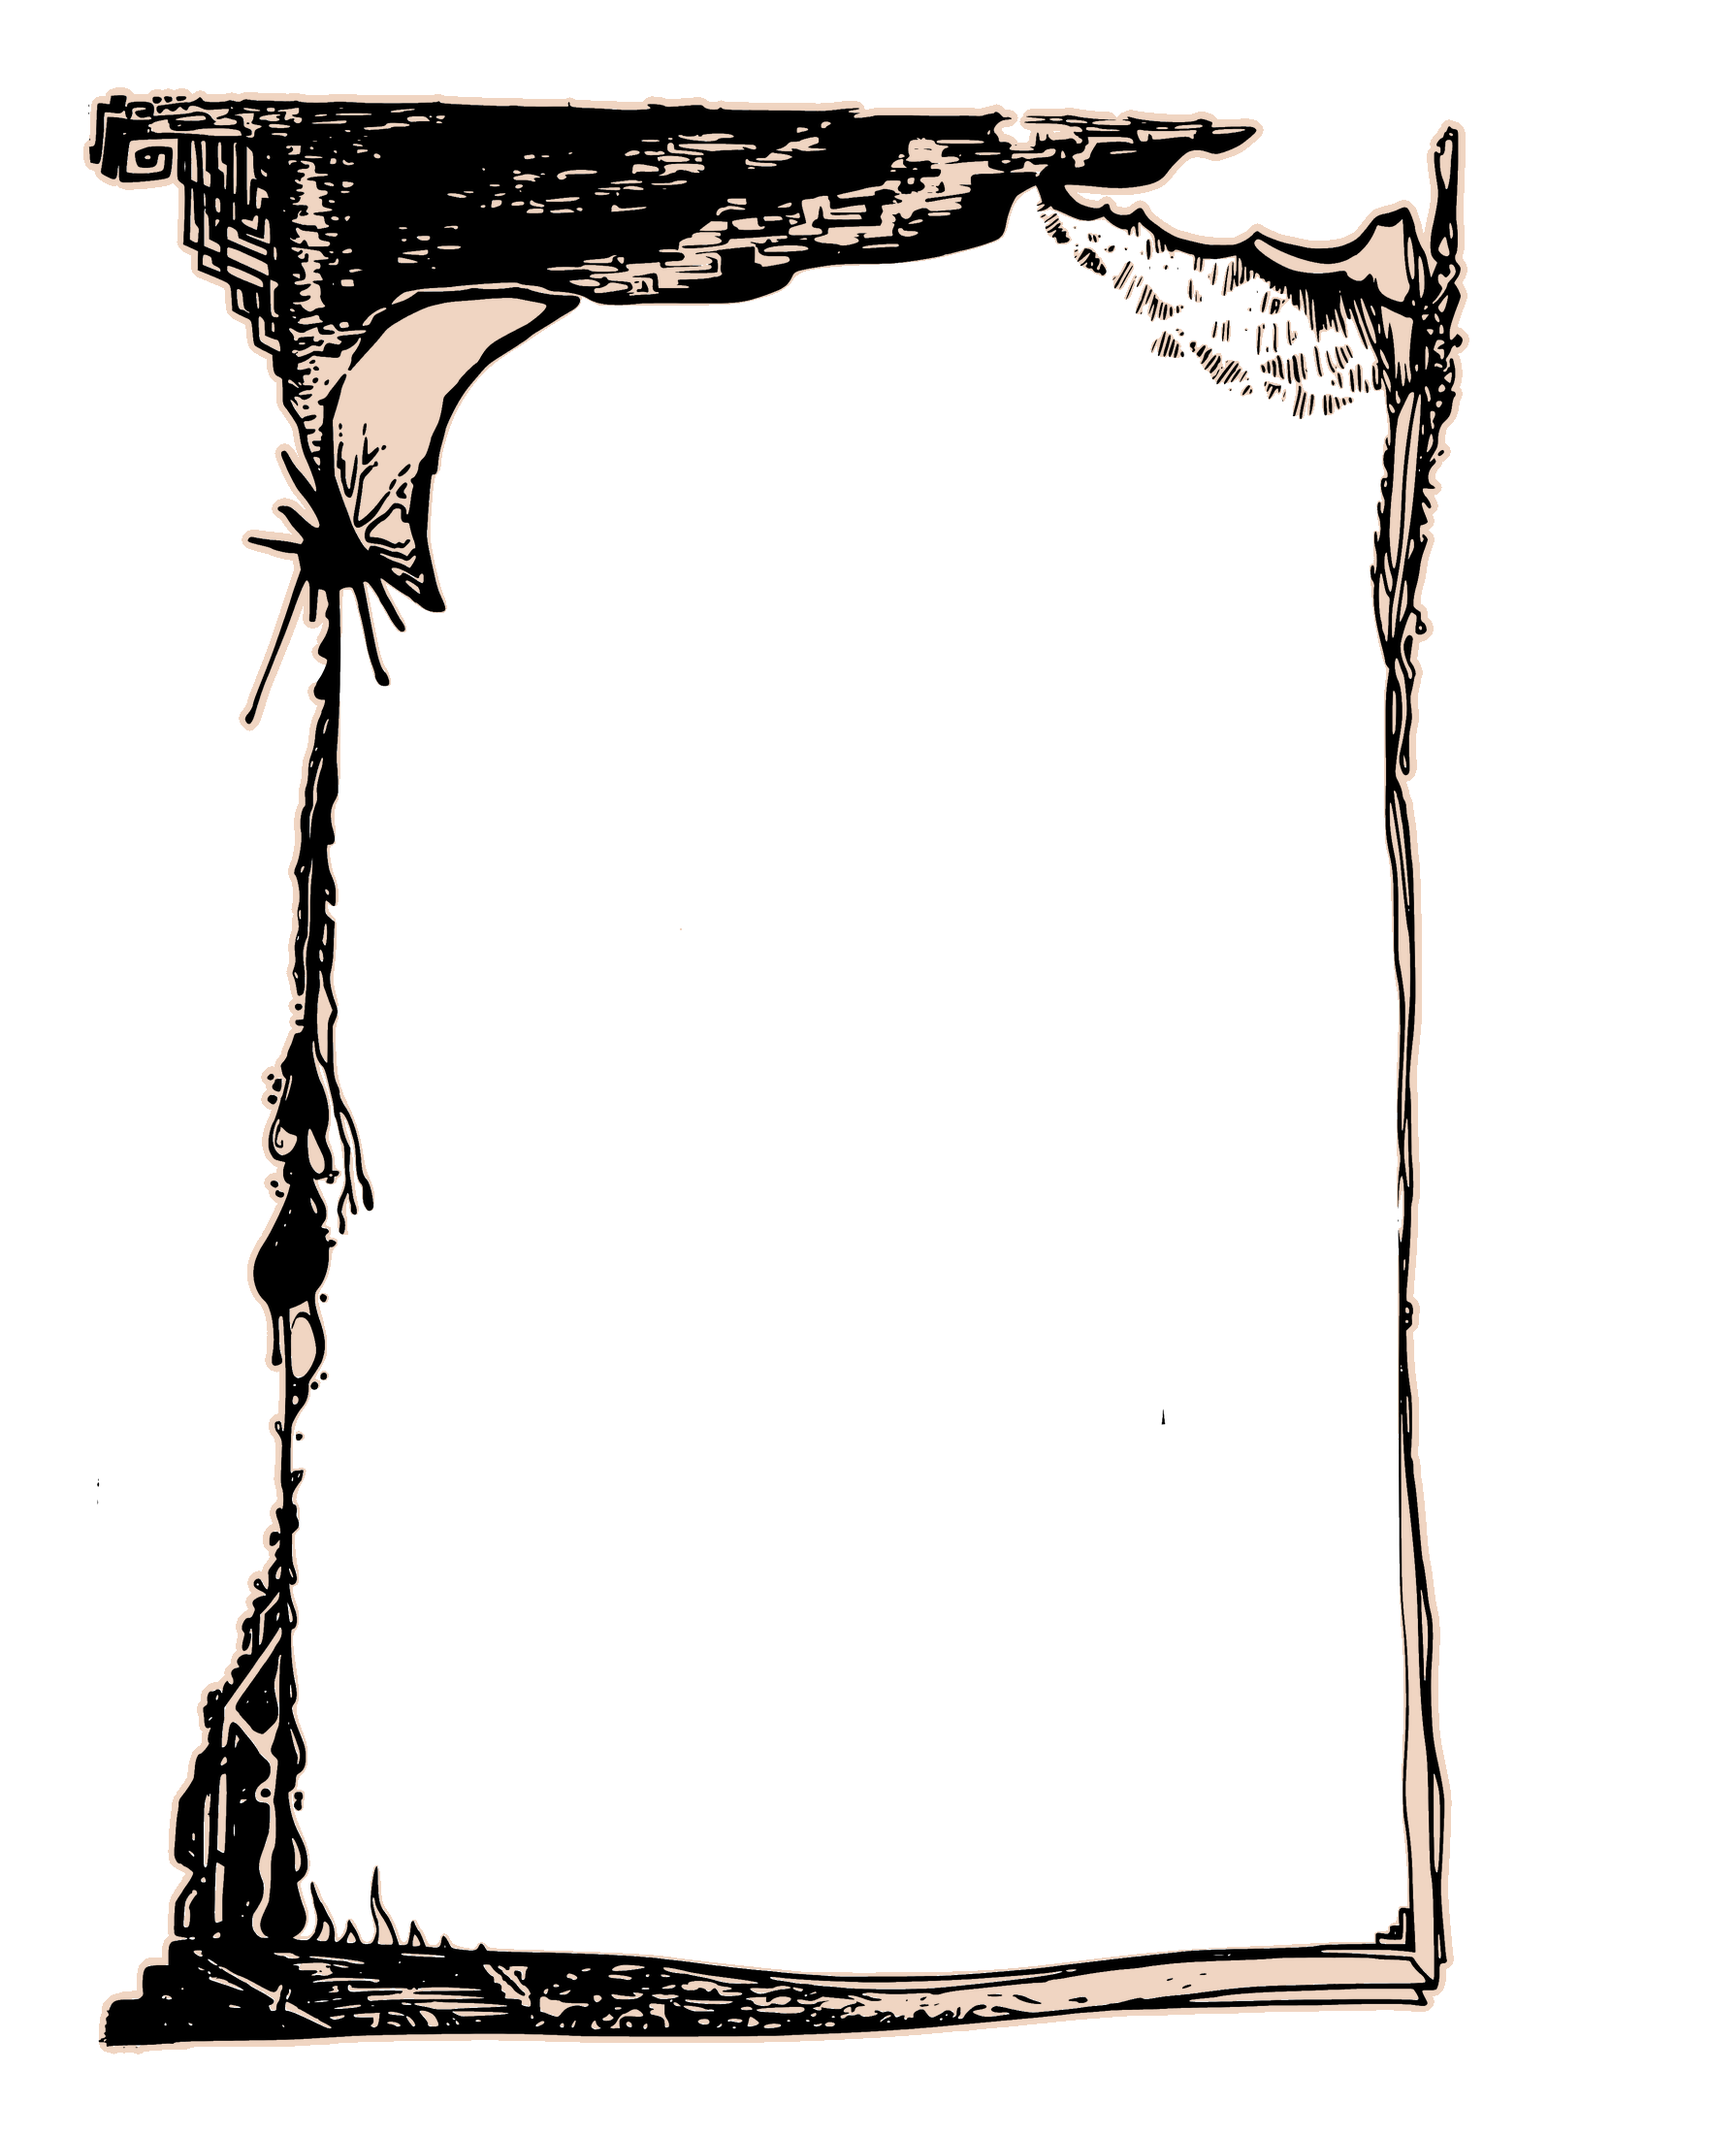
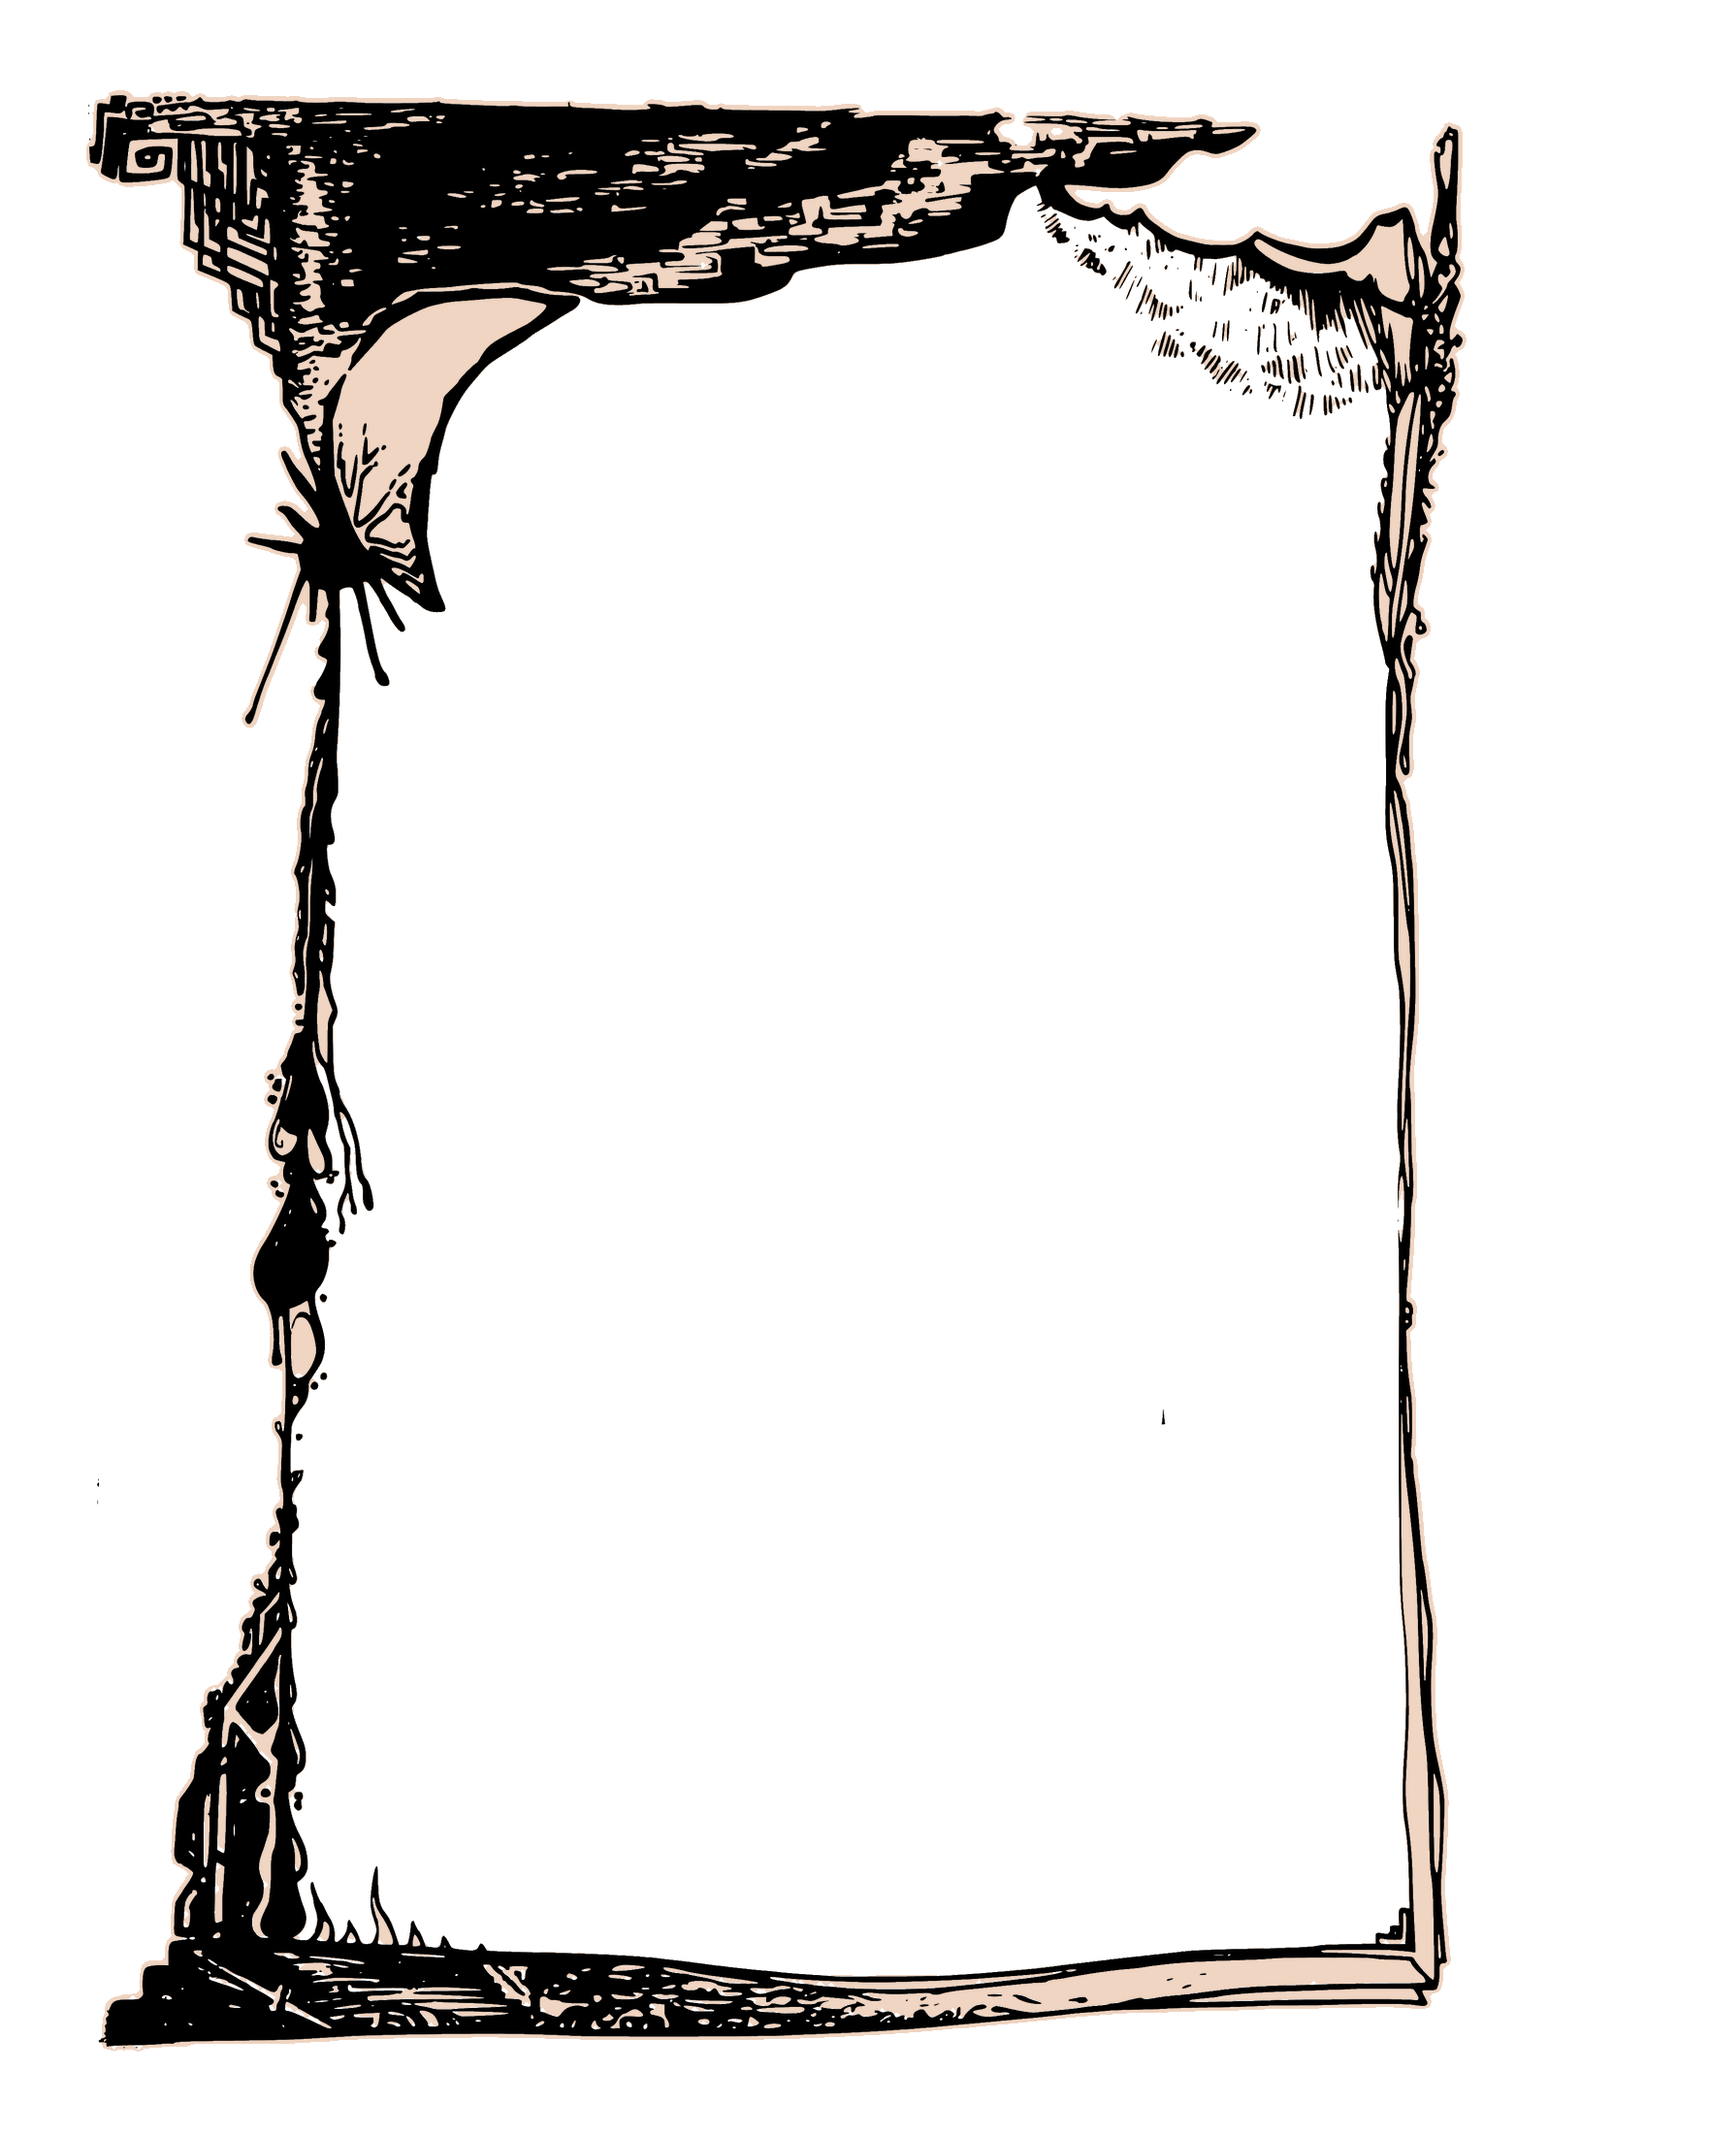
Trim cream pixels that overflow past the new ink into open space
The combo overlay reused the established cream mask as-is, but where
the new vector ink's boundary sits slightly inset from the old one,
thin slivers of cream were left poking past the new ink directly
against full transparency. Those hard cream-to-transparent edges rang
into a visible white fringe when the browser downscaled the image for
display. Eroded away any cream not backed by nearby ink/cream (radius
3, using every visible - including antialiased - pixel as "backed",
not just fully-opaque ones), which clears the overflow and the fringe
while leaving the liseré that's properly sandwiched between ink
intact.

diff --git a/audio-fr.html b/audio-fr.html
@@ -68,7 +68,7 @@
           </div>
         </div>
       </div>
-      <img src="audio-frame-overlay.png?v=12" alt="" class="native-audio-frame-overlay">
+      <img src="audio-frame-overlay.png?v=13" alt="" class="native-audio-frame-overlay">
     </div>
     <p class="bandcamp-link-below"><a class="content-link social-link" href="https://comodorosuleyman.bandcamp.com/" target="_blank" rel="noopener"><svg class="social-icon" viewBox="0 0 512 512" aria-hidden="true"><path fill="currentColor" d="M256,8C119,8,8,119,8,256S119,504,256,504,504,393,504,256,393,8,256,8Zm48.2,326.1h-181L207.9,178h181Z"/></svg>Écouter sur Bandcamp</a></p>
   </div>

diff --git a/audio-es.html b/audio-es.html
@@ -68,7 +68,7 @@
           </div>
         </div>
       </div>
-      <img src="audio-frame-overlay.png?v=12" alt="" class="native-audio-frame-overlay">
+      <img src="audio-frame-overlay.png?v=13" alt="" class="native-audio-frame-overlay">
     </div>
     <p class="bandcamp-link-below"><a class="content-link social-link" href="https://comodorosuleyman.bandcamp.com/" target="_blank" rel="noopener"><svg class="social-icon" viewBox="0 0 512 512" aria-hidden="true"><path fill="currentColor" d="M256,8C119,8,8,119,8,256S119,504,256,504,504,393,504,256,393,8,256,8Zm48.2,326.1h-181L207.9,178h181Z"/></svg>Escuchar en Bandcamp</a></p>
   </div>

diff --git a/audio-ro.html b/audio-ro.html
@@ -68,7 +68,7 @@
           </div>
         </div>
       </div>
-      <img src="audio-frame-overlay.png?v=12" alt="" class="native-audio-frame-overlay">
+      <img src="audio-frame-overlay.png?v=13" alt="" class="native-audio-frame-overlay">
     </div>
     <p class="bandcamp-link-below"><a class="content-link social-link" href="https://comodorosuleyman.bandcamp.com/" target="_blank" rel="noopener"><svg class="social-icon" viewBox="0 0 512 512" aria-hidden="true"><path fill="currentColor" d="M256,8C119,8,8,119,8,256S119,504,256,504,504,393,504,256,393,8,256,8Zm48.2,326.1h-181L207.9,178h181Z"/></svg>Ascultă pe Bandcamp</a></p>
   </div>

diff --git a/audio.html b/audio.html
@@ -68,7 +68,7 @@
           </div>
         </div>
       </div>
-      <img src="audio-frame-overlay.png?v=12" alt="" class="native-audio-frame-overlay">
+      <img src="audio-frame-overlay.png?v=13" alt="" class="native-audio-frame-overlay">
     </div>
     <p class="bandcamp-link-below"><a class="content-link social-link" href="https://comodorosuleyman.bandcamp.com/" target="_blank" rel="noopener"><svg class="social-icon" viewBox="0 0 512 512" aria-hidden="true"><path fill="currentColor" d="M256,8C119,8,8,119,8,256S119,504,256,504,504,393,504,256,393,8,256,8Zm48.2,326.1h-181L207.9,178h181Z"/></svg>Listen on Bandcamp</a></p>
   </div>
